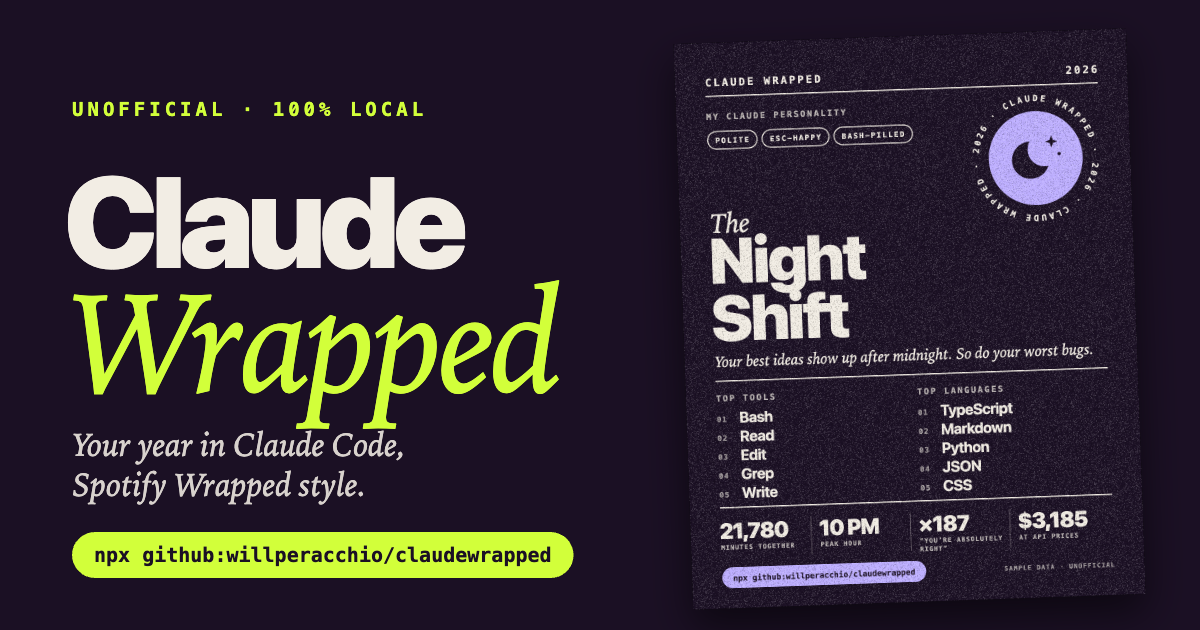
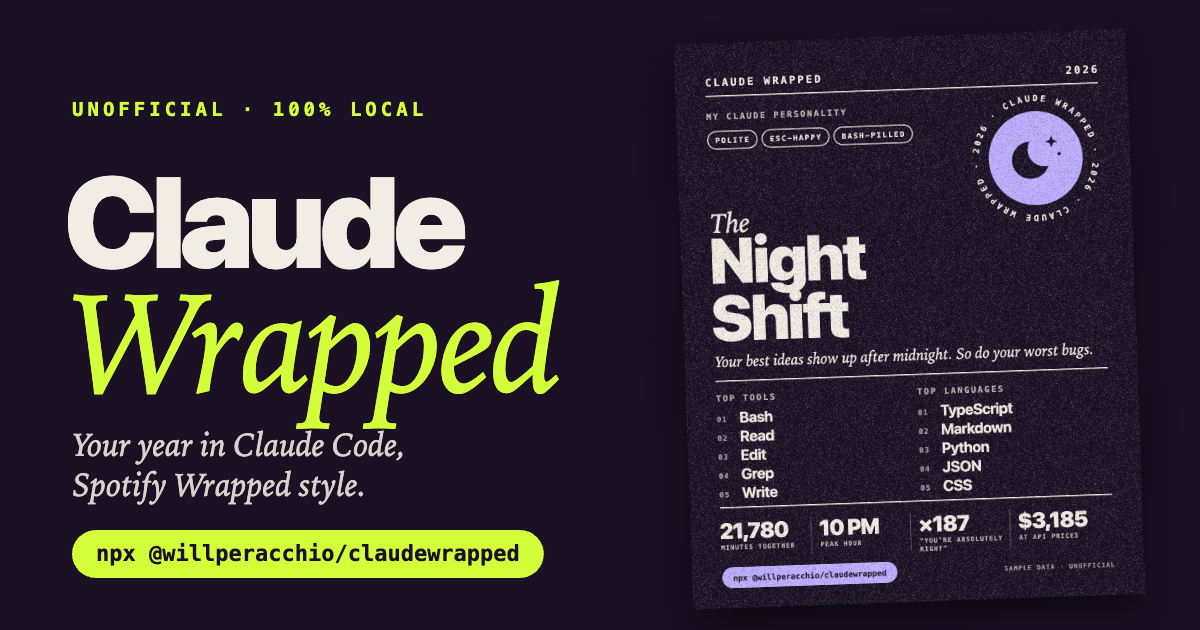
Publish as the scoped package @willperacchio/claudewrapped
npm rejects the unscoped name `claudewrapped` as too similar to the
existing `claude-wrapped`. A scoped name is also the safer choice:
only the @willperacchio npm account can ever publish under it, so the
command people copy can't be taken over by a lookalike.

- package.json: renamed, publishConfig.access = public
- the advertised command is now derived from package.json, so the
  page, share card, post text, CLI help and README can't drift apart
- og.png redrawn with the new command; docs/ rebuilt
- test asserts the package stays scoped and that no page or README
  advertises any other command

Changed region(s): [[0.0617, 0.8143, 0.4933, 0.9349], [0.6167, 0.8746, 0.7708, 0.9349]]

diff --git a/lib/render.js b/lib/render.js
@@ -7,10 +7,10 @@ const TEMPLATE = path.join(__dirname, '..', 'web', 'index.html');
 const MARKER = '/*__WRAPPED_DATA__*/null';
 const LOOSE = "script-src 'unsafe-inline'";
 
-// The command we advertise. It points at the GitHub repo until the npm name is claimed —
-// advertising an unclaimed npm name invites someone else to register it and ship malware.
-// After `npm publish`, change this to 'npx claudewrapped'.
-const CTA = 'npx github:willperacchio/claudewrapped';
+// The command we advertise, derived from package.json so the two can never drift apart.
+// The package is scoped (@willperacchio/…): only that npm account can publish under the scope,
+// so the command people copy can't be taken over by a lookalike package.
+const CTA = 'npx ' + require('../package.json').name;
 const SITE = 'https://willperacchio.github.io/claudewrapped/';
 
 const OG = `<meta property="og:type" content="website">
@@ -34,7 +34,7 @@ function render(stats, { hosted = false } = {}) {
   let html = fs.readFileSync(TEMPLATE, 'utf8');
   if (!html.includes(MARKER) || !html.includes(LOOSE)) throw new Error('template marker missing');
   if (hosted && stats != null) throw new Error('the hosted site must never contain real stats');
-  html = swap(html, "/*__CTA__*/'npx claudewrapped'", JSON.stringify(CTA));
+  html = swap(html, "/*__CTA__*/''", JSON.stringify(CTA));
   html = swap(html, '/*__HOSTED__*/false', hosted ? 'true' : 'false');
   html = swap(html, '<!--__HEAD_EXTRA__-->', hosted ? OG : '');
   if (stats != null) {

diff --git a/test/firewall.test.js b/test/firewall.test.js
@@ -76,9 +76,17 @@ test('the public demo site is up to date and contains no real data', () => {
   assert.throws(() => render({ schema: 1 }, { hosted: true }), /never contain real stats/);
 });
 
-test('the advertised command is never the bare, unclaimed npm name', () => {
+test('the advertised command is the scoped package, everywhere', () => {
   const { CTA } = require('../lib/render');
-  const html = render(null);
-  assert.ok(html.includes(JSON.stringify(CTA)));
-  assert.ok(!/\bnpx claudewrapped\b/.test(html.replace(/\/\*__CTA__\*\//, '')), 'page hard-codes the npm name somewhere');
+  const pkg = require('../package.json');
+  assert.match(pkg.name, /^@willperacchio\//, 'package must stay scoped so nobody else can publish under its name');
+  assert.strictEqual(CTA, 'npx ' + pkg.name);
+  for (const html of [render(null), render(null, { hosted: true })]) {
+    assert.ok(html.includes(JSON.stringify(CTA)));
+    const other = html.match(/npx (?!@willperacchio\/claudewrapped)[\w:@/.-]*claudewrapped/);
+    assert.ok(!other, 'page advertises some other command: ' + (other && other[0]));
+  }
+  const readme = fs.readFileSync(path.join(__dirname, '..', 'README.md'), 'utf8');
+  const stray = readme.match(/npx (?!@willperacchio\/claudewrapped)\S*claudewrapped/);
+  assert.ok(!stray, 'README advertises some other command: ' + (stray && stray[0]));
 });

diff --git a/docs/index.html b/docs/index.html
@@ -2,7 +2,7 @@
 <html lang="en">
 <head>
 <meta charset="utf-8">
-<meta http-equiv="Content-Security-Policy" content="default-src 'none'; script-src 'sha256-ndWDz2G13wSveFAhc9J3Zw3bz7GdJhY0d+x9c+qE0ds=' 'sha256-bfEorwAvBjWfsjAMxw2elhfyPPfBr2EzmWSvz7Xluq0='; style-src 'unsafe-inline'; img-src data: blob:; base-uri 'none'; form-action 'none'">
+<meta http-equiv="Content-Security-Policy" content="default-src 'none'; script-src 'sha256-ndWDz2G13wSveFAhc9J3Zw3bz7GdJhY0d+x9c+qE0ds=' 'sha256-XU3qZvO6H3QLEwQVmxz8Y0zLjZLPebxHHJmG7wcRp58='; style-src 'unsafe-inline'; img-src data: blob:; base-uri 'none'; form-action 'none'">
 <meta name="viewport" content="width=device-width,initial-scale=1,viewport-fit=cover">
 <meta name="color-scheme" content="dark">
 <title>Claude Wrapped</title>
@@ -319,7 +319,7 @@ body{background:#0B0A0C;color:var(--paper);font-family:var(--sans);-webkit-font-
 <script>
 (() => {
 'use strict';
-const CTA = "npx github:willperacchio/claudewrapped";   // the command we tell people to run
+const CTA = "npx @willperacchio/claudewrapped";   // the command we tell people to run (filled in by lib/render.js)
 const HOSTED = true;           // true only for the public demo site
 // The public site refuses to run inside someone else's frame (clickjacking / spoofed wrappers).
 if (HOSTED && window.top !== window.self) {

diff --git a/web/index.html b/web/index.html
@@ -311,7 +311,7 @@ body{background:#0B0A0C;color:var(--paper);font-family:var(--sans);-webkit-font-
 <script>
 (() => {
 'use strict';
-const CTA = /*__CTA__*/'npx claudewrapped';   // the command we tell people to run
+const CTA = /*__CTA__*/'';   // the command we tell people to run (filled in by lib/render.js)
 const HOSTED = /*__HOSTED__*/false;           // true only for the public demo site
 // The public site refuses to run inside someone else's frame (clickjacking / spoofed wrappers).
 if (HOSTED && window.top !== window.self) {

diff --git a/README.md b/README.md
@@ -3,7 +3,7 @@
 **Your year in Claude Code, Spotify Wrapped style.**
 
 ```bash
-npx github:willperacchio/claudewrapped
+npx @willperacchio/claudewrapped
 ```
 
 That's it. In about 10 seconds you get a story-mode recap of your year with Claude Code, plus a share card for your timeline.
@@ -44,7 +44,7 @@ Claude Wrapped is built so that **your data can't leak into the page, even by ac
 Don't trust us? Look at exactly what goes into the page:
 
 ```bash
-npx github:willperacchio/claudewrapped --json
+npx @willperacchio/claudewrapped --json
 ```
 
 ## Security
